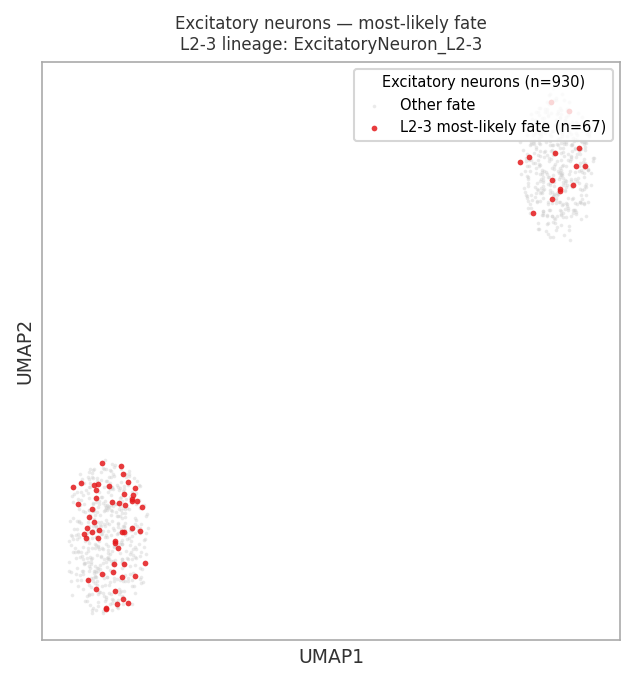
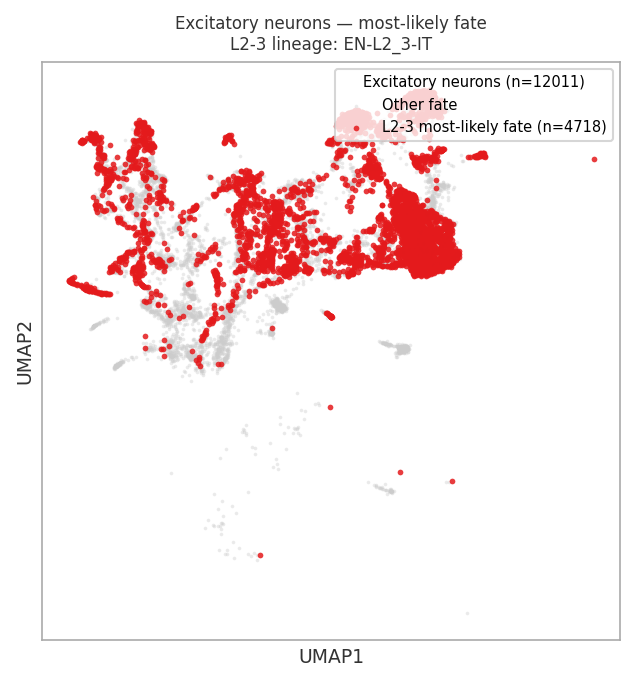
Add immature cell filtering, prenatal age bins, use_cell_type_states

diff --git a/code/CellRank2/test_pipeline.py b/code/CellRank2/test_pipeline.py
@@ -66,24 +66,42 @@ def make_synthetic_adata(
     data = rng_sparse.exponential(2, nnz).astype(np.float32)
     X = sp.csr_matrix((data, (rows, cols)), shape=(n_cells, n_genes))
 
-    # Age spanning prenatal → adult (years)
+    # Age spanning prenatal (negative = before birth) → adult (years)
+    # Prenatal ages are represented as negative fractions of a year:
+    # e.g. -0.5 ≈ GW26 (6 months before birth)
+    n_prenatal = n_cells // 8
+    n_postnatal = n_cells - n_prenatal
     age_values = np.concatenate([
-        rng.uniform(0.0, 0.4, n_cells // 6),    # prenatal (GW as fraction)
-        rng.uniform(0.4, 2.0, n_cells // 6),    # early infancy
-        rng.uniform(2.0, 10.0, n_cells // 6),   # childhood
-        rng.uniform(10.0, 20.0, n_cells // 6),  # adolescence
-        rng.uniform(20.0, 40.0, n_cells // 6),  # adult
-        rng.uniform(40.0, 80.0, n_cells - 5 * (n_cells // 6)),  # older adult
+        rng.uniform(-0.9, -0.05, n_prenatal),              # prenatal (negative age)
+        rng.uniform(0.0, 0.5, n_postnatal // 6),           # neonatal
+        rng.uniform(0.5, 2.0, n_postnatal // 6),           # infancy
+        rng.uniform(2.0, 10.0, n_postnatal // 6),          # childhood
+        rng.uniform(10.0, 20.0, n_postnatal // 6),         # adolescence
+        rng.uniform(20.0, 40.0, n_postnatal // 6),         # adult
+        rng.uniform(40.0, 80.0, n_postnatal - 5 * (n_postnatal // 6)),  # older adult
     ])
     rng.shuffle(age_values)
 
-    # Cell types with realistic proportions including layer-specific excitatory subtypes
-    cell_types_pool = [
+    # Cell types: immature progenitors (prenatal-biased) + mature types
+    # Immature types stay transient in the CellRank pipeline;
+    # mature types are absorbing terminal states.
+    immature_pool = ["RG", "IPC", "Immature_ExcitatoryNeuron"]
+    mature_pool = [
         "ExcitatoryNeuron_L2-3", "ExcitatoryNeuron_L4-6",
         "InhibitoryNeuron", "Astrocyte", "Oligodendrocyte",
     ]
-    cell_types = rng.choice(cell_types_pool, size=n_cells,
-                            p=[0.25, 0.20, 0.20, 0.20, 0.15])
+    # Assign cell types: prenatal cells skewed towards immature progenitors
+    prenatal_cell_types = rng.choice(
+        immature_pool + mature_pool,
+        size=n_prenatal,
+        p=[0.30, 0.25, 0.20, 0.10, 0.08, 0.04, 0.02, 0.01],
+    )
+    postnatal_cell_types = rng.choice(
+        mature_pool,
+        size=n_postnatal,
+        p=[0.25, 0.20, 0.20, 0.20, 0.15],
+    )
+    cell_types = np.concatenate([prenatal_cell_types, postnatal_cell_types])
 
     # Batch (source)
     sources = rng.choice(["WANG", "VELMESHEV", "AGING"], size=n_cells,
@@ -108,6 +126,9 @@ def make_synthetic_adata(
 
     # Synthetic scANVI latent: cell-type mean + age trend + noise
     type_means = {
+        "RG": rng.randn(n_latent) * 2,
+        "IPC": rng.randn(n_latent) * 2,
+        "Immature_ExcitatoryNeuron": rng.randn(n_latent) * 2,
         "ExcitatoryNeuron_L2-3": rng.randn(n_latent) * 2,
         "ExcitatoryNeuron_L4-6": rng.randn(n_latent) * 2,
         "InhibitoryNeuron": rng.randn(n_latent) * 2,
@@ -115,8 +136,9 @@ def make_synthetic_adata(
         "Oligodendrocyte": rng.randn(n_latent) * 2,
     }
     latent = np.zeros((n_cells, n_latent), dtype=np.float32)
+    age_range = age_values.max() - age_values.min()
     for i, ct in enumerate(cell_types):
-        age_effect = (age_values[i] / 80.0) * rng.randn(n_latent) * 0.5
+        age_effect = ((age_values[i] - age_values.min()) / age_range) * rng.randn(n_latent) * 0.5
         latent[i] = type_means[ct] + age_effect + rng.randn(n_latent) * 0.3
     adata.obsm["X_scANVI"] = latent
 
@@ -230,12 +252,13 @@ def main():
         batch_key="source",
         n_neighbors=15,
         neighbors_key="neighbors_scanvi",
-        age_bin_edges=[0.0, 0.5, 2.0, 10.0, 20.0, 40.0, 100.0],
+        age_bin_edges=[-1.0, 0.5, 2.0, 10.0, 20.0, 40.0, 100.0],
         ot_epsilon=0.05,
         ot_max_iterations=500,
         rtk_weight=0.8,
         use_cell_type_states=True,  # synthetic data has 5 exact cell types; use them directly
         cluster_key="cell_type_aligned",
+        n_terminal_cells=1000,
         terminal_states=[],
         initial_states=[],
         compute_drivers=False,

diff --git a/code/CellRank2/estimator.py b/code/CellRank2/estimator.py
@@ -196,19 +196,30 @@ def set_terminal_states_from_cell_types(
     import numpy as np
 
     col = adata.obs[config.cell_type_key].astype(str)
-    cell_types = sorted(col.unique().tolist())
+    all_types = sorted(col.unique().tolist())
     n_cells = config.n_terminal_cells
+    patterns = config.immature_cell_type_patterns
+
+    def _is_immature(ct: str) -> bool:
+        return any(pat in ct for pat in patterns)
+
+    mature_types = [ct for ct in all_types if not _is_immature(ct)]
+    immature_types = [ct for ct in all_types if _is_immature(ct)]
 
     logger.info(
-        f"  Setting terminal states directly from '{config.cell_type_key}' "
-        f"({len(cell_types)} unique types, {n_cells} cells/type — skipping GPCCA Schur decomposition)."
+        f"  Setting terminal states from '{config.cell_type_key}': "
+        f"{len(mature_types)} mature (terminal) + {len(immature_types)} immature (transient) — "
+        f"skipping GPCCA Schur decomposition."
     )
+    if immature_types:
+        logger.info(f"  Immature/transient (not absorbing): {immature_types}")
 
-    # Sample n_cells representative cells per type (rest stay transient).
-    # Uses dict form which does NOT require prior compute_macrostates.
+    # Sample n_cells representative cells per MATURE type only.
+    # Immature cells (RG, IPC, Immature*) are left fully transient so the
+    # solver can assign them fate probabilities towards the mature endpoints.
     rng = np.random.default_rng(0)
     states_dict = {}
-    for ct in cell_types:
+    for ct in mature_types:
         all_names = adata.obs_names[(col == ct).values].tolist()
         n_sample = min(n_cells, len(all_names))
         sampled = rng.choice(all_names, size=n_sample, replace=False).tolist()

diff --git a/code/CellRank2/config.py b/code/CellRank2/config.py
@@ -27,7 +27,7 @@ class CellRankConfig:
     # Time points are binned from the continuous age_years column.
     # If age_bins is empty, unique values of time_key are used directly.
     age_bin_edges: List[float] = field(
-        default_factory=lambda: [0.0, 0.5, 2.0, 10.0, 20.0, 40.0, 100.0]
+        default_factory=lambda: [-1.0, 0.5, 2.0, 10.0, 20.0, 40.0, 100.0]
     )
     age_bin_key: str = "age_bin"        # new obs column written by the pipeline
     ot_epsilon: float = 0.05            # regularisation strength for OT
@@ -50,9 +50,14 @@ class CellRankConfig:
     # membership arrays.  Terminal-state names will exactly match cell_type_key
     # categories, guaranteeing the L2-3 lineage is always present.
     use_cell_type_states: bool = False
-    # Number of representative cells sampled per cell type when use_cell_type_states=True.
-    # The sampled cells become absorbing terminal states; the rest are transient.
+    # Number of representative cells sampled per mature cell type as terminal states.
     n_terminal_cells: int = 30
+    # Cell type name substrings that identify immature/progenitor cells.
+    # Any cell type containing one of these strings is kept fully transient
+    # (excluded from terminal states) when use_cell_type_states=True.
+    immature_cell_type_patterns: List[str] = field(
+        default_factory=lambda: ["Immature", "IPC", "RG"]
+    )
 
     # -- Terminal / initial state selection --
     # Provide explicit terminal state names (matching cluster labels) when known.
